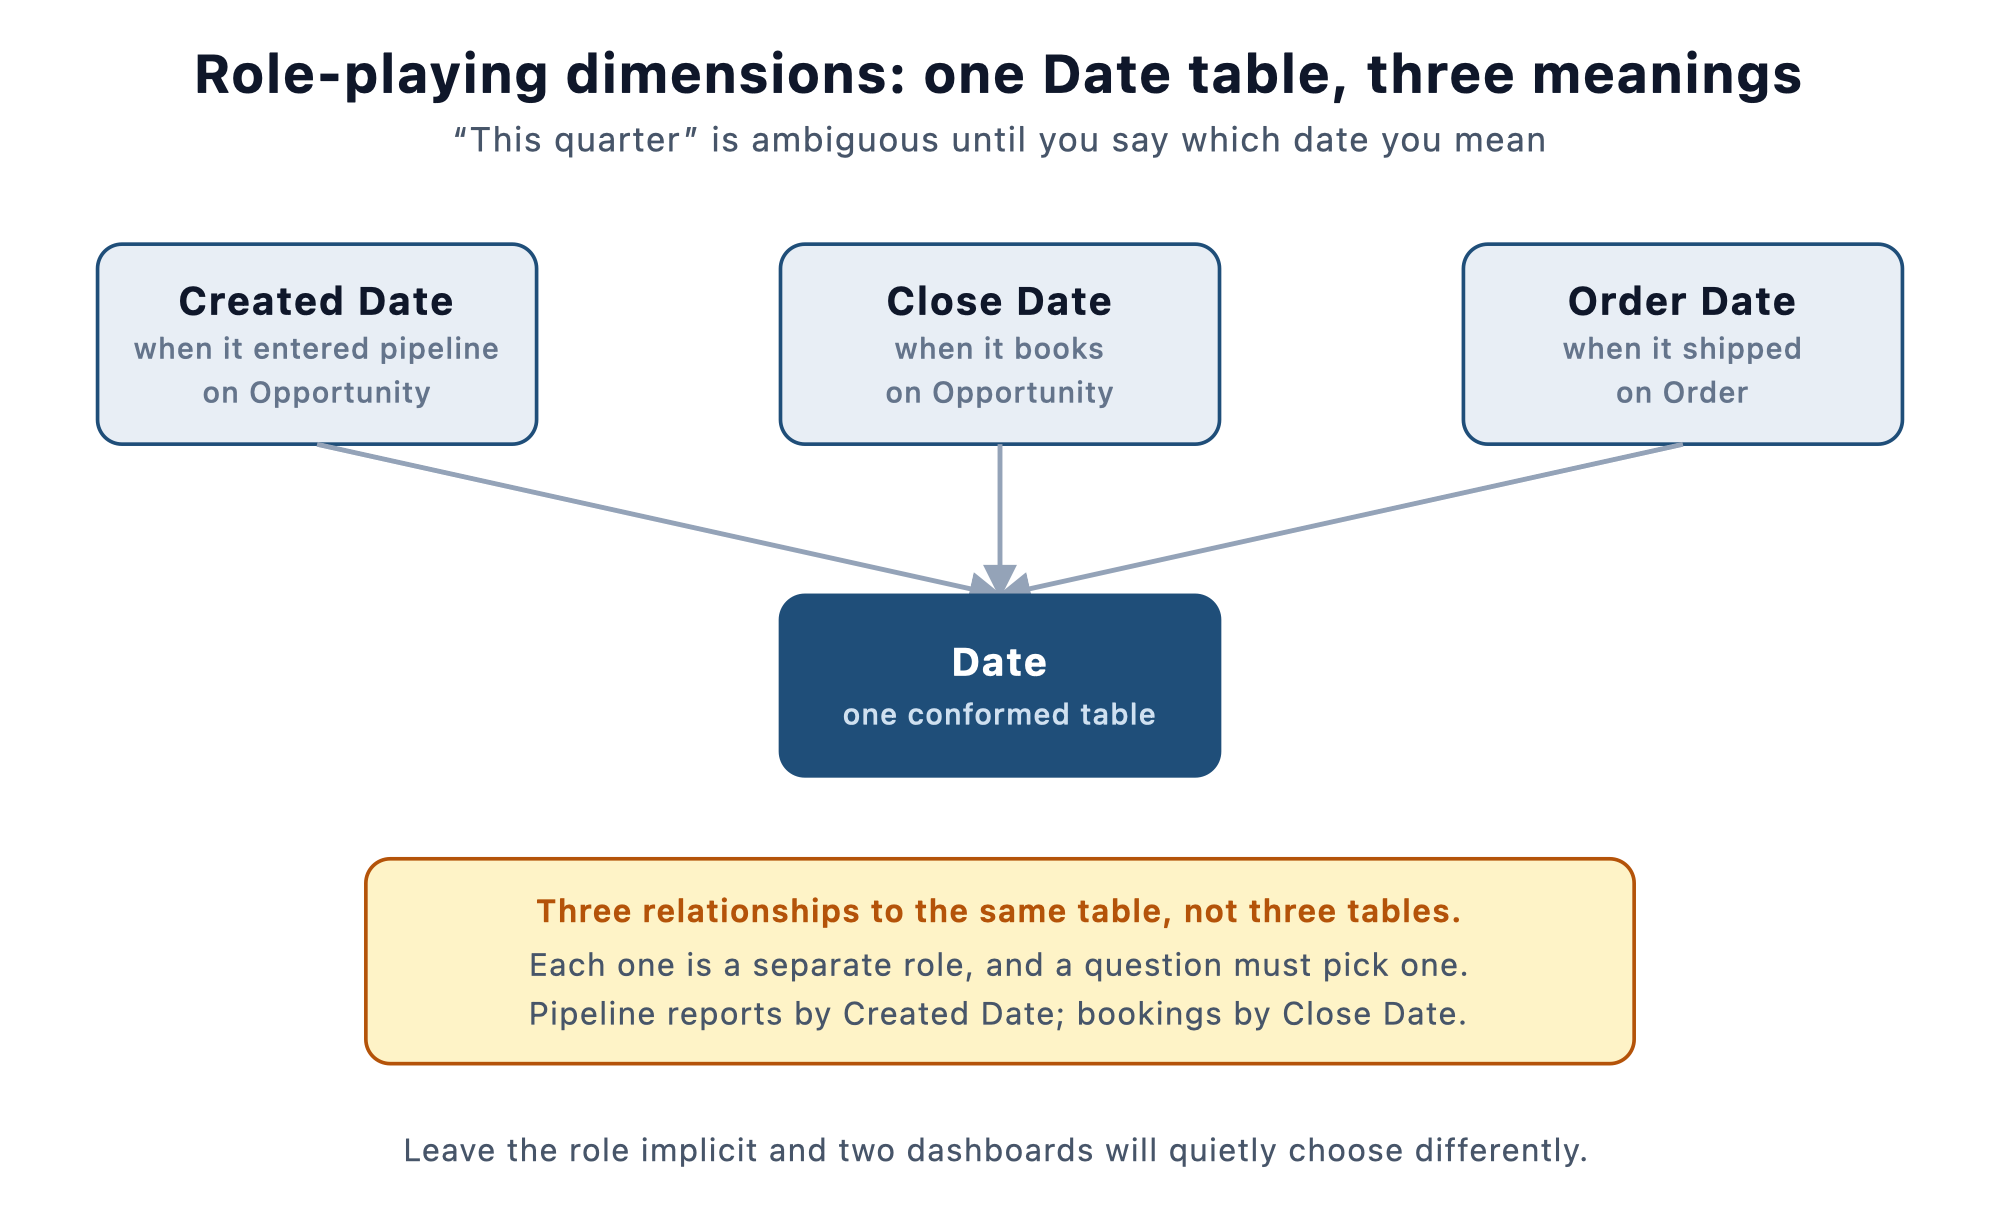
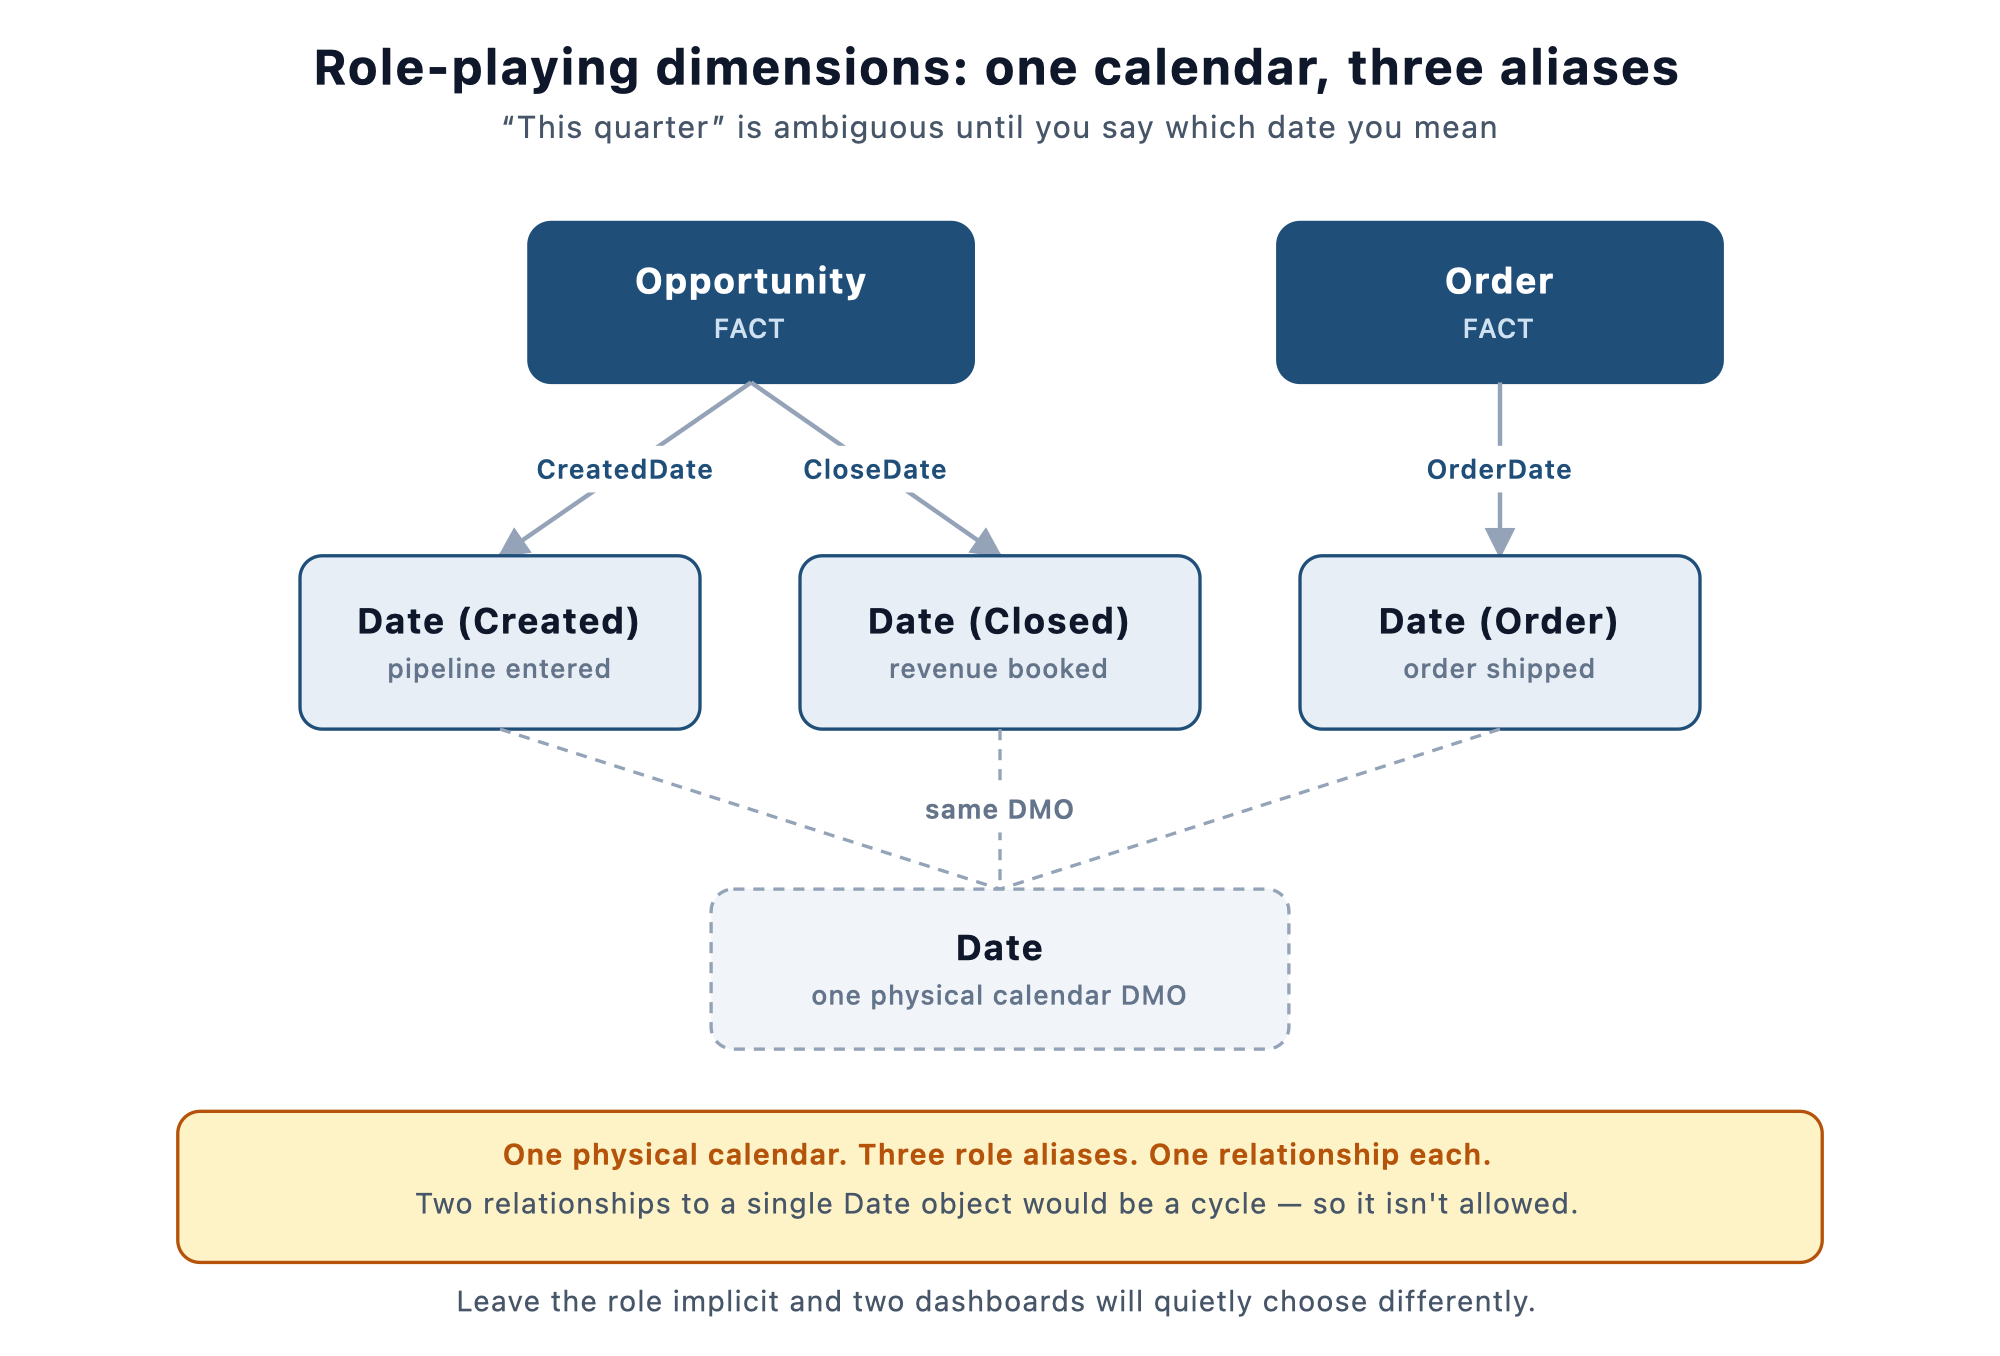
Correct role-playing dimensions: alias once per role, not one object related twice
Relating a single calendar object to the same fact more than once creates two
paths between the same pair of objects. That is a cycle, so Tableau Next drops
the extra relationship, and no modeling practice should want it regardless.

The correct pattern is Kimball's original one: one physical calendar added to
the model once per role, each instance under its own name -- Date (Created),
Date (Closed), Date (Order) -- with exactly one relationship each. One source,
three objects to the planner, one place where "fiscal quarter" is defined.

Also notes that grouping by month needs no calendar relationship at all, since
the fact carries its own date columns; spend an alias when you need the
calendar's attributes in more than one role.

diff --git a/diagrams/build_diagrams.py b/diagrams/build_diagrams.py
@@ -365,33 +365,48 @@ def part2_no_op():
 
 
 def part2_role_playing():
-    W, H = 820, 500
-    b = [heading(W, "Role-playing dimensions: one Date table, three meanings",
+    W, H = 900, 610
+    b = [heading(W, "Role-playing dimensions: one calendar, three aliases",
                  "\u201cThis quarter\u201d is ambiguous until you say which date you mean")]
-    roles = [(40, 100, "Created Date", "when it entered pipeline", "Opportunity"),
-             (320, 100, "Close Date", "when it books", "Opportunity"),
-             (600, 100, "Order Date", "when it shipped", "Order")]
-    for rx, ry, role, meaning, owner in roles:
-        b.append(node(rx, ry, 180, 82, role, meaning, f"on {owner}",
-                      where=f"p2 role {role}"))
-        b.append(line(rx + 90, ry + 82, 410, 244, LINE, 2, arrow=True))
-    b.append(node(320, 244, 180, 74, "Date", "one conformed table",
+
+    # Facts on top, each relating down to role aliases rather than to one shared Date.
+    b.append(node(238, 100, 200, 72, "Opportunity", "FACT",
                   fill=NAVY, stroke=NAVY, title_fill=WHITE, sub_fill=NAVY_TEXT,
-                  where="p2 date"))
-    b.append(rect(150, 352, 520, 84, fill=AMBER_BG, stroke=AMBER, sw=1.5))
-    b.append(txt(410, 378, "Three relationships to the same table, not three tables.",
+                  where="p2rp opp"))
+    b.append(node(575, 100, 200, 72, "Order", "FACT",
+                  fill=NAVY, stroke=NAVY, title_fill=WHITE, sub_fill=NAVY_TEXT,
+                  where="p2rp order"))
+
+    aliases = [(135, "Date (Created)", "pipeline entered", 338, "CreatedDate"),
+               (360, "Date (Closed)", "revenue booked", 338, "CloseDate"),
+               (585, "Date (Order)", "order shipped", 675, "OrderDate")]
+    for ax, title, sub, fact_cx, key in aliases:
+        acx = ax + 90
+        b.append(line(fact_cx, 172, acx, 250, LINE, 2, arrow=True))
+        b.append(node(ax, 250, 180, 78, title, sub, where=f"p2rp {title}"))
+        # Each alias hangs off the one physical calendar underneath it.
+        b.append(line(acx, 328, 450, 400, LINE, 1.5, dash="5,4"))
+        b.append(pill((fact_cx + acx) / 2, 211, key, where=f"p2rp key {key}"))
+
+    b.append(node(320, 400, 260, 72, "Date", "one physical calendar DMO",
+                  fill=SLATE_BG, stroke=LINE, dash="5,4", where="p2rp physical"))
+    b.append(pill(450, 364, "same DMO", fill=FAINT, where="p2rp same"))
+
+    b.append(rect(80, 500, 740, 68, fill=AMBER_BG, stroke=AMBER, sw=1.5))
+    b.append(txt(450, 524, "One physical calendar. Three role aliases. One relationship each.",
                  13, 600, AMBER))
-    b.append(txt(410, 400, "Each one is a separate role, and a question must pick one.",
+    b.append(txt(450, 546, "Two relationships to a single Date object would be a cycle \u2014 "
+                           "so it isn't allowed.",
                  13, 400, MUTED))
-    b.append(txt(410, 420, "Pipeline reports by Created Date; bookings by Close Date.",
-                 13, 400, MUTED))
-    b.append(footnote(W, 476, "Leave the role implicit and two dashboards will quietly "
+    b.append(footnote(W, 590, "Leave the role implicit and two dashboards will quietly "
                               "choose differently."))
     svg("part-2-03-role-playing-dimension.svg", W, H,
         "Role-playing dimensions",
-        "A single conformed Date table related three times - as Created Date and Close "
-        "Date on Opportunity, and as Order Date on Order. Each relationship is a distinct "
-        "role, so a question must state which date it means.",
+        "One physical Date calendar sits beneath three role aliases - Date (Created), "
+        "Date (Closed) and Date (Order). Opportunity relates once to the Created alias and "
+        "once to the Closed alias; Order relates once to the Order alias. Every alias "
+        "points back at the same underlying calendar, so the definitions stay conformed "
+        "while each relationship stays unambiguous.",
         "".join(b))
 
 

diff --git a/session-2-relationships-vs-joins.md b/session-2-relationships-vs-joins.md
@@ -168,31 +168,62 @@ kind of wrong.
 
 ---
 
-## Sidebar: the same dimension, related three times
+## Sidebar: the same dimension, playing three roles
 
 Our star has one Date dimension. But an opportunity has a **created date** and a **close
 date**, and an order has an **order date**. All three are dates. Do you build three date
 tables?
 
-No. You build one and relate to it three times. Each relationship is a **role**, and this
-pattern is a **role-playing dimension**.
+No — and you also don't draw three relationships into one Date object. Those are both wrong,
+in opposite directions. What you build is **one physical calendar, exposed as three
+role-named aliases**, each with exactly one relationship. That pattern is a **role-playing
+dimension**.
 
-![One conformed Date table related three times, as Created Date and Close Date on Opportunity and as Order Date on Order](diagrams/part-2-03-role-playing-dimension.svg)
+![One physical calendar beneath three role aliases, each with a single relationship: Opportunity to Date (Created) and Date (Closed), Order to Date (Order)](diagrams/part-2-03-role-playing-dimension.svg)
 
-The reason this matters is that it makes "this quarter" a question rather than a fact.
-Pipeline generated this quarter means *created* this quarter. Bookings this quarter means
-*closed* this quarter. Those are different sets of opportunities, and both are legitimate
-readings of "this quarter's pipeline."
+Three separate date tables would drift — three loads, three definitions of "fiscal quarter",
+and exactly the fragmentation a conformed calendar exists to prevent. But relating a single
+Date object to Opportunity twice is worse than it looks. It creates two paths between the
+same pair of objects, and once there are two paths, "opportunities in Q3" has two readings
+and the engine silently picks one. Tableau Next won't let you build it: relationships that
+reference the same object more than once are treated as circular and dropped. No modeling
+practice should want it either. This isn't a product gap — it's the same reason Kimball's
+original prescription for role-playing dimensions was *aliased views* over one physical
+table rather than repeated joins.
 
-Two consequences worth internalizing:
+An alias is a first-class thing here, not a workaround. The same underlying data object can
+be added to a model more than once, each instance carrying its own name while pointing at
+one shared source. So the model holds `Date (Created)`, `Date (Closed)` and `Date (Order)` —
+three objects to the query planner, one calendar to whoever maintains it. Conformance
+survives because there is still exactly one place where "fiscal quarter" is defined.
 
-- **Name the role, not the table.** In the model, the relationships should read as
-  `Opportunity.Close Date → Date` and `Opportunity.Created Date → Date`, and the fields
-  users see should say "Close Date" and "Created Date" — never a single ambiguous "Date."
+This generalizes well past dates, and it's worth knowing before you need it. `Account
+(Broker)` and `Account (Customer)` on one model is the same move: a single Account source,
+two roles that mean genuinely different things to the business.
+
+The reason all of this matters is that it makes "this quarter" a question rather than a
+fact. Pipeline generated this quarter means *created* this quarter. Bookings this quarter
+means *closed* this quarter. Those are different sets of opportunities, and both are
+legitimate readings of "this quarter's pipeline."
+
+Three consequences worth internalizing:
+
+- **Name the role, not the table.** A picker that offers "Date" twice gets chosen from at
+  random — by people, and by agents. Usefully, the alias approach *forces* the discipline: the
+  objects need distinct names in order to exist at all, so it's structural rather than a
+  convention someone has to remember.
 - **Pick the default deliberately.** Pipeline and forecast metrics usually key off created
-  date; revenue and bookings metrics off close date. Write the choice into the metric
-  definition so it travels with the number (Part 5), rather than leaving each analyst to
-  rediscover it.
+  date; revenue and bookings metrics off close date.
+- **Write that default into the metric, not the dashboard.** A metric definition names the
+  time field it's measured against and the grains it supports. That's where a role belongs —
+  bound to the governed number so it travels with it (Part 5), rather than left for each
+  analyst to rediscover.
+
+That last point deserves emphasis, because it saves you modeling work: you don't need a
+relationship to a calendar merely to group by month. The fact already carries its own date
+columns, and a metric can key off them directly. Reach for a role alias when you need the
+calendar's *attributes* — fiscal quarter, holiday flags, period-to-date markers — in more
+than one role.
 
 Leave the role implicit and two dashboards will quietly choose differently — which is the
 Part 6 argument in miniature.
@@ -293,7 +324,9 @@ a reason to walk through the door.
    for bidirectional filtering last, on one relationship, for a written-down reason.
 5. **One fact never narrows another.** Only a shared dimension connects them, and making
    them agree is drill-across (Part 4).
-6. **Name the role, not the table.** Close Date and Created Date are different questions.
+6. **Name the role, not the table.** Close Date and Created Date are different questions, so
+   give each one its own alias over the single shared calendar — never two relationships into
+   one Date object.
 7. **Give every dimension an Unknown member** and route orphans to it, so a broken key
    becomes a number you can see rather than revenue you can't.
 

diff --git a/reference/going-deeper.md b/reference/going-deeper.md
@@ -205,16 +205,29 @@ business unit, is not. That is the difference between standardizing and overfitt
 
 ### Role-playing
 
-One physical calendar, related more than once. In the series model the calendar plays three roles:
+One physical calendar, aliased once per role. In the series model the calendar plays three roles:
 `created_date` and `close_date` on `Opportunity`, `order_date` on `Order`.
 
-Two rules make this work:
+Three rules make this work:
 
 - **Do not build three calendar tables.** They will drift, and three tables mean three definitions of
   "fiscal quarter" — the exact problem materializing a calendar was supposed to solve.
-- **Name the relationship for the role, not the table.** "Created Date" and "Close Date", never "Date"
+- **Do not relate one calendar object twice to the same fact either.** Two relationships between the
+  same pair of objects is two paths, and two paths make the traversal ambiguous. A semantic model has
+  to stay acyclic, so the second relationship is dropped rather than honored. Instead, add the same
+  underlying calendar to the model once per role, each instance under its own name — `Date (Created)`,
+  `Date (Closed)`, `Date (Order)`. One source, three objects, one relationship each. This is what
+  Kimball meant by aliased views, expressed as model metadata instead of SQL.
+- **Name the alias for the role, not the table.** "Created Date" and "Close Date", never "Date"
   twice. A person choosing fields from a picker that offers `Date` twice is choosing at random, and so
-  is an agent.
+  is an agent. Aliasing gets you this for free, since distinct names are what make the instances
+  distinct in the first place.
+
+Worth knowing where the cheaper option sits. Grouping by calendar month or quarter needs no
+relationship at all — the fact carries its own date columns, and a metric definition names the time
+field it is measured against plus the grains it supports, which is where the role is best recorded
+anyway. Spend an alias when you need the calendar's *attributes* in more than one role: fiscal
+periods, holiday flags, period-to-date markers.
 
 The stakes are not subtle. In the dataset, two opportunities worth $180,000 were created in 2025 and
 *none* closed in 2025 — so "how much did we do last year" is either $180,000 or nothing, depending

diff --git a/reference/glossary.md b/reference/glossary.md
@@ -436,12 +436,13 @@ puts a door between them.*
 
 ### Role-playing dimension
 
-One conformed dimension related more than once to the same model, where each relationship means
-something different. Each role is a separate path, and a question has to pick one.
+One physical dimension that appears in a model once per role, each instance under its own name and
+each with exactly one relationship. Not the same as relating a single object twice — that would be two
+paths between the same pair, which is a cycle and is disallowed.
 
-*[Part 2](../session-2-relationships-vs-joins.md). The single calendar plays three roles here:
-created date and close date on `Opportunity`, order date on `Order`. Two opportunities were created in
-2025 and none closed in 2025 — "last year" is a different answer per role.*
+*[Part 2](../session-2-relationships-vs-joins.md). The single calendar plays three roles here, as
+`Date (Created)` and `Date (Closed)` on `Opportunity` and `Date (Order)` on `Order`. Two opportunities
+were created in 2025 and none closed in 2025 — "last year" is a different answer per role.*
 
 ### Row-level calculation
 

diff --git a/reference/exercises.md b/reference/exercises.md
@@ -291,9 +291,10 @@ outcome.
 The lesson is that a role-playing dimension makes the date role a **required** part of the question,
 not an optional detail. Leave it implicit and two dashboards will quietly choose differently, which is
 the [two dashboards disagree](symptom-triage.md#two-dashboards-disagree-on-the-same-metric) symptom
-arriving by a different route. Name the relationships for the role, not the table — "Created Date" and
-"Close Date", not "Date" twice — so a person picking fields cannot pick blindly. `Order` adds a third
-role, `order_date`, to the same calendar.
+arriving by a different route. Give each role its own alias over the one shared calendar — `Date
+(Created)` and `Date (Closed)`, not "Date" twice — so a person picking fields cannot pick blindly, and
+so the model keeps a single unambiguous path to each. `Order` adds a third role, `order_date`, to the
+same calendar.
 
 </details>
 
